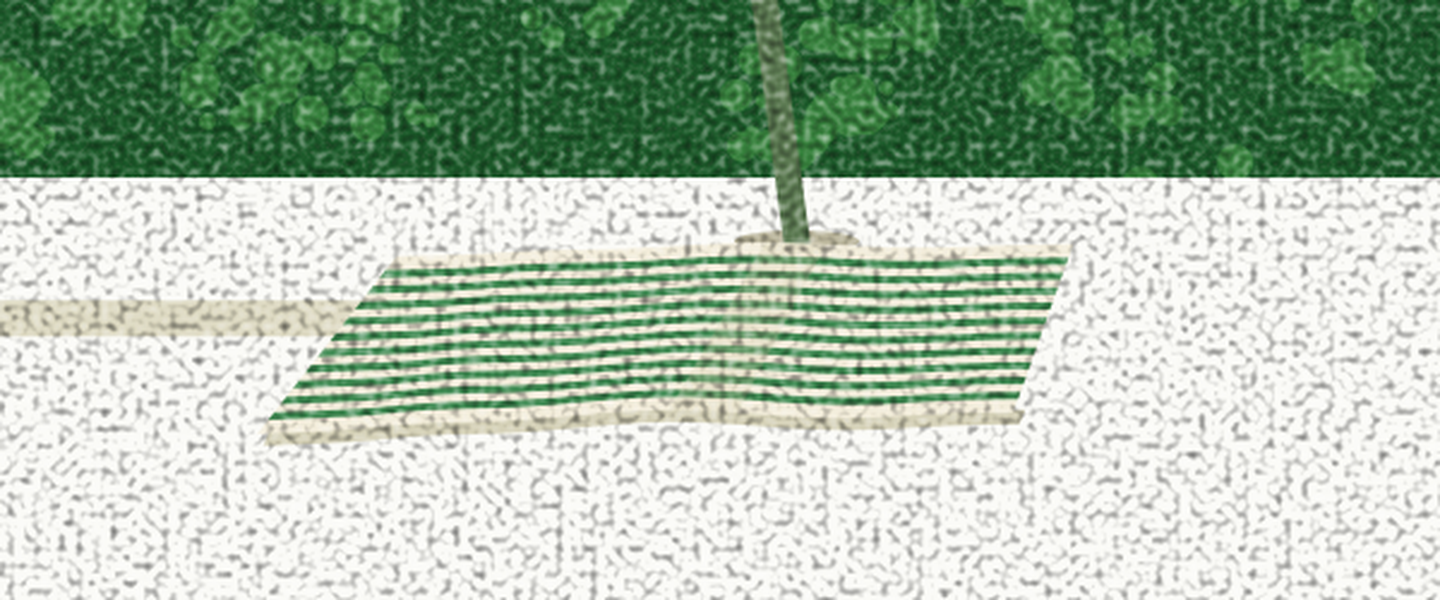
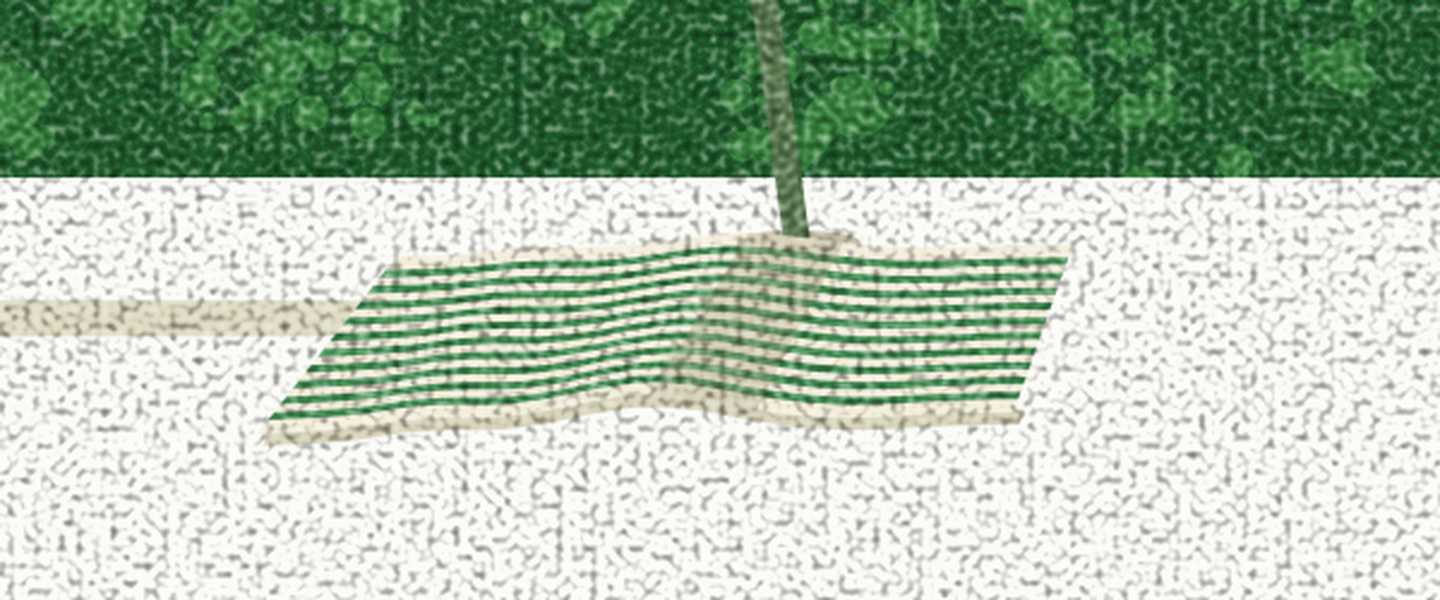
Serviette : le pli enfin visible — 12 px mesurés sur le rendu
Le diagnostic du sur-place : je décrivais des effets que le rendu ne
montrait pas. La bosse faisait 5 px sur un tapis de 70 — sous le seuil de
l'œil — et l'ombre de flanc à 30 % d'opacité disparaissait sous le grain.
Le code disait « bosse », le PNG disait « plat », et je commentais le code.

La bosse passe à 11 px (un accident de surface se voit à partir d'environ
un septième de la hauteur de l'objet), l'ombre à 38 % dans un ton plus
sombre, et son flanc est échantillonné le long de la bosse pour la suivre —
le quadrilatère droit la coupait.

Et la vérification change de nature : le bord haut du tissu est relevé
colonne par colonne sur le PNG rendu — la bosse du milieu soulève le bord
de 12 px par rapport aux bouts, mesuré, pas affirmé. Un premier détecteur
commençait son balayage dans la haie et prenait le feuillage pour la
serviette ; corrigé en partant sous le pied de haie.

Claude-Session: https://claude.ai/code/session_015un2t2xRvThoKm9jAu6CXK

Changed region(s): [[0.2188, 0.39, 0.625, 0.75]]

diff --git a/illustration/personnages.py b/illustration/personnages.py
@@ -253,7 +253,11 @@ def serviette_rayee(ox, oy, k=1.0, indent=4):
         bosse2 = math.exp(-((u - 0.21) / 0.09) ** 2)
         frisson = 0.7 * math.sin(2 * math.pi * 3.1 * u + 1.7)
         att = math.sin(math.pi * min(1.0, max(0.0, u))) ** 0.5
-        return -(5.2 * bosse1 + 2.3 * bosse2 + frisson * att) * k
+        # 11 px et non 5 : sur un tapis de 70 px de haut, 5 px de bosse
+        # sont sous le seuil de l'oeil - je decrivais un relief que le rendu
+        # ne montrait pas. La regle : un accident de surface se voit a
+        # partir d'un septieme de la hauteur de l'objet.
+        return -(11.0 * bosse1 + 4.0 * bosse2 + frisson * att) * k
 
     def point(u, v):
         gauche = (A[0] + (D[0] - A[0]) * v, A[1] + (D[1] - A[1]) * v)
@@ -310,13 +314,16 @@ def serviette_rayee(ox, oy, k=1.0, indent=4):
     # tourne le dos a la lumiere, porte une bande d'ombre translucide en
     # travers du tapis. C'est elle qui transforme la montee des lignes en
     # RELIEF - sans elle les rayures ondulent, avec elle le tissu bombe.
-    fl0, fl1 = 0.545, 0.635
-    p1, p2 = point(fl0, 0.0), point(fl0, 1.0)
-    p3, p4 = point(fl1, 1.0), point(fl1, 0.0)
-    out.append(u'<path d="M%.1f %.1f L%.1f %.1f L%.1f %.1f L%.1f %.1f Z" '
-               u'fill="%s" opacity="0.30"/>'
-               % (p1[0], p1[1], p2[0], p2[1], p3[0], p3[1], p4[0], p4[1],
-                  OMBRE_SOL))
+    # Le flanc est echantillonne le long de u pour SUIVRE la bosse - un
+    # quadrilatere droit la coupait - et l'ombre est assez dense pour
+    # survivre au grain : a 0.30 elle disparaissait dessous.
+    fl0, fl1 = 0.52, 0.66
+    Np = 6
+    haut_f = [point(fl0 + (fl1 - fl0) * i / Np, 0.0) for i in range(Np + 1)]
+    bas_f = [point(fl0 + (fl1 - fl0) * i / Np, 1.0) for i in range(Np + 1)]
+    d_f = _catmull(haut_f) + u" L%.1f %.1f" % bas_f[-1]
+    d_f += _catmull(list(reversed(bas_f))).replace("M", "L", 1)
+    out.append(u'<path d="%s Z" fill="#9E9878" opacity="0.38"/>' % d_f)
 
     return u"%s<g inkscape:label=\"Serviette rayee\">\n%s\n%s</g>" % (
         e, "\n".join(u"%s  %s" % (e, x) for x in out), e)

diff --git a/illustration/METHODE.md b/illustration/METHODE.md
@@ -212,6 +212,14 @@ bord près**, l'épaisseur du tissu, sans laquelle la serviette est peinte
 sur le sable au lieu d'être posée dessus. Le passage par des bandes
 transversales était une surinterprétation.
 
+**Un effet décrit n'existe que s'il se mesure sur le rendu.** La bosse à
+5 px sur un tapis de 70 et l'ombre à 30 % sous le grain : je décrivais un
+relief que le PNG ne montrait pas — plusieurs tours durant. Deux seuils
+payés : un accident de surface se voit à partir d'≈ 1/7 de la hauteur de
+l'objet, et une ombre doit survivre au grain qui la recouvre. La
+vérification se fait au pixel sur le rendu (bord relevé colonne par
+colonne : bosse mesurée à 12 px), jamais en relisant le code.
+
 **Un pli est une bosse, pas une onde.** Une sinusoïde met ses crêtes où ses
 phases les posent — la nôtre tombait à côté du milieu — et elle descend
 autant qu'elle monte, ce qu'un tissu posé ne fait pas : il se soulève, il ne
